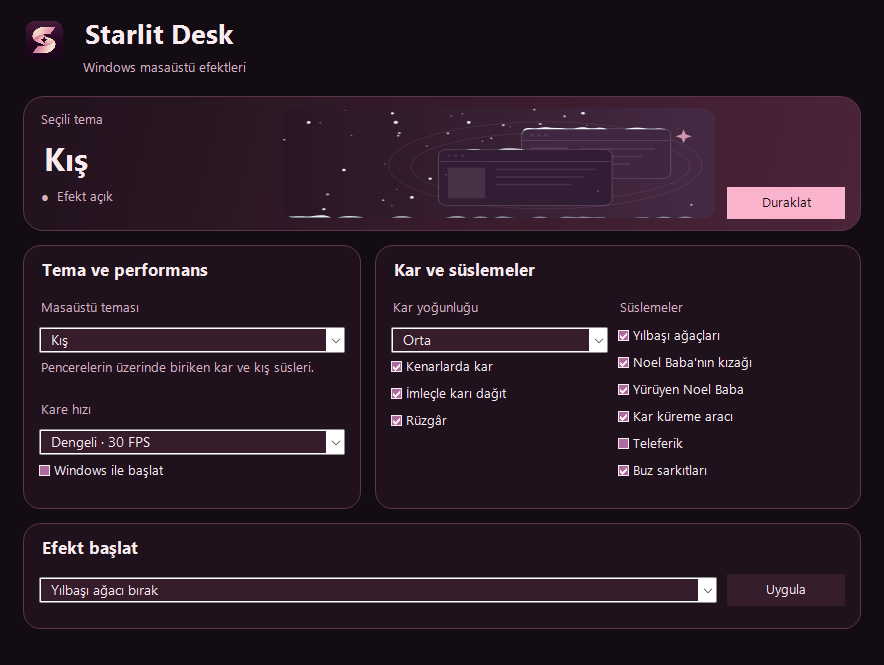
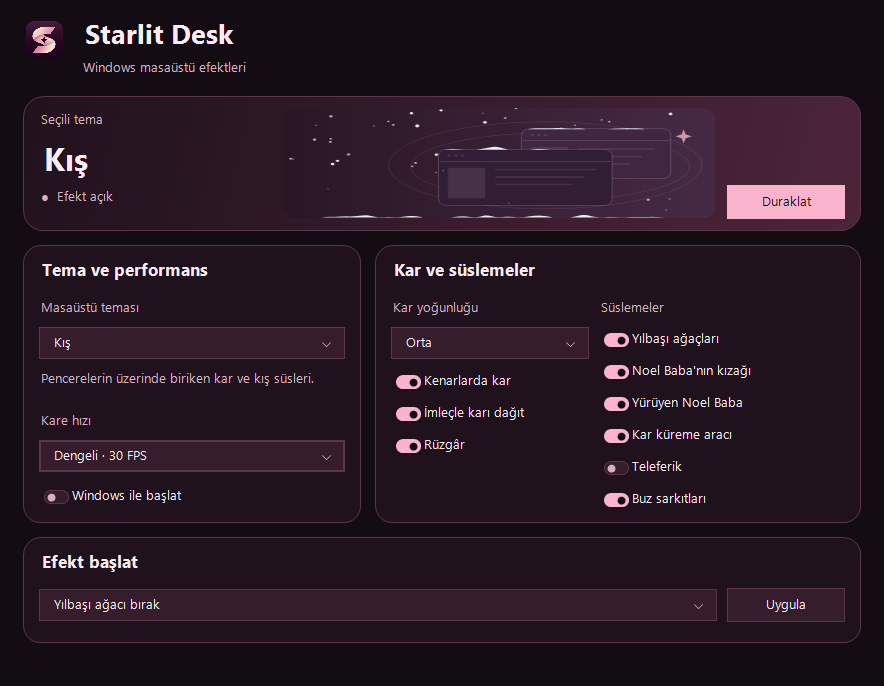
Match Starlit Desk controls and native title bar to its burgundy theme

diff --git a/src/DeskStyle.cs b/src/DeskStyle.cs
@@ -1,4 +1,5 @@
 using System;
+using System.Collections.Generic;
 using System.Drawing;
 using System.Drawing.Drawing2D;
 using System.Windows.Forms;
@@ -14,6 +15,11 @@ namespace SnowDesk
         internal static readonly Color Text = Color.FromArgb(250, 235, 241);
         internal static readonly Color Muted = Color.FromArgb(216, 176, 195);
         internal static readonly Color Accent = Color.FromArgb(249, 179, 204);
+        internal static readonly Color Caption = Color.FromArgb(40, 21, 34);
+        internal static readonly Color Hover = Color.FromArgb(69, 37, 55);
+        internal static readonly Bitmap Chevron = CreateChevron();
+        private static readonly Bitmap SwitchOff = CreateSwitch(false);
+        private static readonly Bitmap SwitchOn = CreateSwitch(true);
 
         internal static TableLayoutPanel Flow(int columns)
         {
@@ -45,22 +51,77 @@ namespace SnowDesk
             };
         }
 
-        internal static ComboBox Select(string label) { return new DeskSelect(label); }
+        internal static DeskSelect Select(string label) { return new DeskSelect(label); }
 
         internal static Button Button(string text, bool primary)
         {
-            var button = new Button
-            {
-                Text = text, Width = 118, Height = 32, Margin = Padding.Empty,
-                UseVisualStyleBackColor = false, UseCompatibleTextRendering = true,
-                FlatStyle = FlatStyle.Flat, BackColor = primary ? Accent : Input,
-                ForeColor = primary ? Background : Text
-            };
-            button.FlatAppearance.BorderSize = 0;
-            button.FlatAppearance.MouseOverBackColor = primary ? Color.FromArgb(255, 205, 224) : Border;
+            var button = new Button { Text = text, Width = 118, Height = 34 };
+            StyleButton(button, primary);
+            return button;
+        }
+
+        internal static void StyleButton(Button button, bool primary)
+        {
+            button.Margin = Padding.Empty;
+            button.UseVisualStyleBackColor = false;
+            button.UseCompatibleTextRendering = true;
+            button.FlatStyle = FlatStyle.Flat;
+            button.BackColor = primary ? Accent : Input;
+            button.ForeColor = primary ? Background : Text;
+            button.FlatAppearance.BorderSize = primary ? 0 : 1;
+            button.FlatAppearance.BorderColor = Border;
+            button.FlatAppearance.MouseOverBackColor = primary ? Color.FromArgb(255, 205, 224) : Hover;
+            button.FlatAppearance.MouseDownBackColor = primary ? Color.FromArgb(235, 149, 183) : Border;
             button.Resize += (sender, e) => RoundButton(button);
             RoundButton(button);
-            return button;
+        }
+
+        internal static CheckBox Toggle(string title)
+        {
+            var check = new CheckBox
+            {
+                Text = title, Appearance = Appearance.Button, AccessibleRole = AccessibleRole.CheckButton,
+                AutoSize = true, MinimumSize = new Size(0, 25), ForeColor = Text, BackColor = Surface,
+                FlatStyle = FlatStyle.Flat, UseCompatibleTextRendering = true, UseVisualStyleBackColor = false,
+                Image = SwitchOff, ImageAlign = ContentAlignment.MiddleLeft,
+                TextAlign = ContentAlignment.MiddleLeft, TextImageRelation = TextImageRelation.ImageBeforeText,
+                Anchor = AnchorStyles.Left, Margin = new Padding(0, 1, 0, 1)
+            };
+            check.FlatAppearance.BorderSize = 0;
+            check.FlatAppearance.CheckedBackColor = Surface;
+            check.FlatAppearance.MouseOverBackColor = Input;
+            check.FlatAppearance.MouseDownBackColor = Hover;
+            check.CheckedChanged += (sender, e) => check.Image = check.Checked ? SwitchOn : SwitchOff;
+            return check;
+        }
+
+        private static Bitmap CreateSwitch(bool enabled)
+        {
+            var glyph = new Bitmap(28, 16);
+            using (Graphics graphics = Graphics.FromImage(glyph))
+            using (GraphicsPath track = Rounded(new Rectangle(0, 1, 24, 13), 6))
+            using (var fill = new SolidBrush(enabled ? Accent : Input))
+            using (var rim = new Pen(enabled ? Accent : Border))
+            using (var thumb = new SolidBrush(enabled ? Background : Muted))
+            {
+                graphics.SmoothingMode = SmoothingMode.AntiAlias;
+                graphics.FillPath(fill, track);
+                graphics.DrawPath(rim, track);
+                graphics.FillEllipse(thumb, enabled ? 13 : 3, 4, 8, 8);
+            }
+            return glyph;
+        }
+
+        private static Bitmap CreateChevron()
+        {
+            var glyph = new Bitmap(12, 12);
+            using (Graphics graphics = Graphics.FromImage(glyph))
+            using (var pen = new Pen(Muted, 1.4f) { StartCap = LineCap.Round, EndCap = LineCap.Round })
+            {
+                graphics.SmoothingMode = SmoothingMode.AntiAlias;
+                graphics.DrawLines(pen, new[] { new Point(2, 4), new Point(6, 8), new Point(10, 4) });
+            }
+            return glyph;
         }
 
         private static void RoundButton(Button button)
@@ -96,36 +157,120 @@ namespace SnowDesk
         }
     }
 
-    internal sealed class DeskSelect : ComboBox
+    internal sealed class DeskSelect : Button
     {
+        private readonly ContextMenuStrip menu = new ContextMenuStrip();
+        internal readonly List<object> Items = new List<object>();
+        internal event EventHandler SelectedIndexChanged;
+        private int selectedIndex = -1;
+
         internal DeskSelect(string label)
         {
+            DeskStyle.StyleButton(this, false);
             AccessibleName = label;
-            DropDownStyle = ComboBoxStyle.DropDownList;
-            BackColor = DeskStyle.Input;
-            ForeColor = DeskStyle.Text;
+            AccessibleRole = AccessibleRole.ComboBox;
             Dock = DockStyle.Top;
-            FlatStyle = FlatStyle.Flat;
-            IntegralHeight = false;
-            DropDownHeight = 196;
-            DrawMode = DrawMode.OwnerDrawFixed;
+            Height = 32;
+            Padding = new Padding(9, 0, 9, 0);
+            UseMnemonic = false;
+            AutoEllipsis = true;
+            Image = DeskStyle.Chevron;
+            TextAlign = ContentAlignment.MiddleLeft;
+            ImageAlign = ContentAlignment.MiddleRight;
+            TextImageRelation = TextImageRelation.TextBeforeImage;
+            menu.ShowImageMargin = false;
+            menu.ShowCheckMargin = true;
+            menu.Renderer = new ToolStripProfessionalRenderer(new DeskMenuColors());
         }
 
-        protected override void OnDrawItem(DrawItemEventArgs e)
+        internal int SelectedIndex
         {
-            bool active = (e.State & DrawItemState.Selected) != 0;
-            using (var fill = new SolidBrush(active ? DeskStyle.Border : BackColor))
-                e.Graphics.FillRectangle(fill, e.Bounds);
-            if (e.Index >= 0)
+            get { return selectedIndex; }
+            set
             {
-                Rectangle text = e.Bounds;
-                text.Inflate(-5, 0);
-                TextRenderer.DrawText(e.Graphics, GetItemText(Items[e.Index]), Font, text, ForeColor,
-                    TextFormatFlags.SingleLine | TextFormatFlags.VerticalCenter | TextFormatFlags.EndEllipsis |
-                    TextFormatFlags.PreserveGraphicsClipping | TextFormatFlags.PreserveGraphicsTranslateTransform);
+                if (value < -1 || value >= Items.Count) throw new ArgumentOutOfRangeException("value");
+                if (value == selectedIndex) return;
+                selectedIndex = value;
+                Text = value < 0 ? string.Empty : Items[value].ToString();
+                if (SelectedIndexChanged != null) SelectedIndexChanged(this, EventArgs.Empty);
             }
-            e.DrawFocusRectangle();
         }
+
+        internal object SelectedItem
+        {
+            get { return selectedIndex < 0 ? null : Items[selectedIndex]; }
+            set { SelectedIndex = Items.IndexOf(value); }
+        }
+
+        protected override void OnClick(EventArgs e)
+        {
+            base.OnClick(e);
+            if (Items.Count == 0 || menu.Visible) return;
+            while (menu.Items.Count != 0)
+            {
+                ToolStripItem previous = menu.Items[0];
+                menu.Items.RemoveAt(0);
+                previous.Dispose();
+            }
+            menu.Font = Font;
+            menu.MinimumSize = new Size(Width, 0);
+            for (int index = 0; index < Items.Count; index++)
+            {
+                int optionIndex = index;
+                var item = new ToolStripMenuItem(Items[index].ToString())
+                {
+                    Checked = index == SelectedIndex, ForeColor = DeskStyle.Text,
+                    AutoSize = false, Size = new Size(Math.Max(120, Width - 4), Math.Max(27, Font.Height + 9))
+                };
+                item.Click += (sender, args) => SelectedIndex = optionIndex;
+                menu.Items.Add(item);
+            }
+
+            Form owner = FindForm();
+            bool below = owner == null || PointToScreen(new Point(0, Height)).Y +
+                menu.GetPreferredSize(Size.Empty).Height <= owner.RectangleToScreen(owner.ClientRectangle).Bottom;
+            menu.Show(this, new Point(0, below ? Height : 0),
+                below ? ToolStripDropDownDirection.BelowRight : ToolStripDropDownDirection.AboveRight);
+            if (SelectedIndex >= 0) menu.Items[SelectedIndex].Select();
+        }
+
+        protected override bool ProcessCmdKey(ref Message message, Keys keyData)
+        {
+            if (keyData == Keys.F4 || keyData == (Keys.Alt | Keys.Down))
+            {
+                PerformClick();
+                return true;
+            }
+            if (Items.Count > 0 && (keyData == Keys.Up || keyData == Keys.Down))
+            {
+                SelectedIndex = Math.Max(0, Math.Min(Items.Count - 1, SelectedIndex + (keyData == Keys.Up ? -1 : 1)));
+                return true;
+            }
+            return base.ProcessCmdKey(ref message, keyData);
+        }
+
+        protected override void Dispose(bool disposing)
+        {
+            if (disposing) menu.Dispose();
+            base.Dispose(disposing);
+        }
+    }
+
+    internal sealed class DeskMenuColors : ProfessionalColorTable
+    {
+        public override Color ToolStripDropDownBackground { get { return DeskStyle.Surface; } }
+        public override Color MenuBorder { get { return DeskStyle.Border; } }
+        public override Color MenuItemBorder { get { return DeskStyle.Border; } }
+        public override Color MenuItemSelected { get { return DeskStyle.Hover; } }
+        public override Color MenuItemSelectedGradientBegin { get { return DeskStyle.Hover; } }
+        public override Color MenuItemSelectedGradientEnd { get { return DeskStyle.Hover; } }
+        public override Color ImageMarginGradientBegin { get { return DeskStyle.Surface; } }
+        public override Color ImageMarginGradientMiddle { get { return DeskStyle.Surface; } }
+        public override Color ImageMarginGradientEnd { get { return DeskStyle.Surface; } }
+        public override Color ButtonSelectedBorder { get { return DeskStyle.Accent; } }
+        public override Color ButtonPressedBorder { get { return DeskStyle.Border; } }
+        public override Color CheckBackground { get { return DeskStyle.Accent; } }
+        public override Color CheckSelectedBackground { get { return DeskStyle.Accent; } }
     }
 
     internal sealed class DeskCard : Panel

diff --git a/src/DeskWindow.cs b/src/DeskWindow.cs
@@ -14,7 +14,7 @@ namespace SnowDesk
         private readonly DeskThemePreview themePreview;
         private readonly Settings settings;
         private readonly List<Action> updateChecks = new List<Action>();
-        private readonly ComboBox themes, density, rate;
+        private readonly DeskSelect themes, density, rate;
         private readonly Label intro, status, themeDetail;
         private readonly Button pause;
         private readonly Control winterCard, actionCard;
@@ -34,8 +34,8 @@ namespace SnowDesk
             Font = new Font("Segoe UI", 10f);
             BackColor = DeskStyle.Background;
             ForeColor = DeskStyle.Text;
-            ClientSize = new Size(884, 665);
-            MinimumSize = new Size(680, 465);
+            ClientSize = new Size(884, 686);
+            MinimumSize = new Size(758, 465);
             FormClosing += KeepInTray;
 
             var scroll = new Panel { Dock = DockStyle.Fill, AutoScroll = true };
@@ -93,7 +93,7 @@ namespace SnowDesk
             settingsRow.ColumnStyles[1] = new ColumnStyle(SizeType.Percent, 58);
             body.Controls.Add(settingsRow);
 
-            var general = DeskStyle.Card("Tema ve performans", 266);
+            var general = DeskStyle.Card("Tema ve performans", 280);
             general.Margin = new Padding(0, 0, 12, 12);
             settingsRow.Controls.Add(general, 0, 0);
             var options = (TableLayoutPanel)general.Controls[0];
@@ -120,11 +120,13 @@ namespace SnowDesk
             };
             AddCheck(options, "Windows ile başlat", Program.HasStartup, value => app.ToggleStartup(), false);
 
-            var winter = DeskStyle.Card("Kar ve süslemeler", 266);
+            var winter = DeskStyle.Card("Kar ve süslemeler", 280);
             winterCard = winter;
             settingsRow.Controls.Add(winter, 1, 0);
             var winterBody = (TableLayoutPanel)winter.Controls[0];
             var winterGrid = DeskStyle.Flow(2);
+            winterGrid.ColumnStyles[0] = new ColumnStyle(SizeType.Percent, 46);
+            winterGrid.ColumnStyles[1] = new ColumnStyle(SizeType.Percent, 54);
             winterBody.Controls.Add(winterGrid);
             var snow = DeskStyle.Flow(1);
             snow.Margin = new Padding(0, 0, 10, 0);
@@ -161,7 +163,7 @@ namespace SnowDesk
             var effects = DeskStyle.Select("Başlatılacak efekt");
             effects.Items.AddRange(SnowAction.All);
             effects.SelectedIndex = 0;
-            effects.Margin = new Padding(0, 3, 10, 0);
+            effects.Margin = new Padding(0, 1, 10, 0);
             actionRow.Controls.Add(effects, 0, 0);
             var play = DeskStyle.Button("Uygula", false);
             play.Click += (sender, e) => app.RunSnowAction((SnowAction)effects.SelectedItem);
@@ -231,10 +233,10 @@ namespace SnowDesk
             if (message.Msg == SettingChange) UpdatePreview();
         }
 
-        private static ComboBox AddSelect(TableLayoutPanel panel, string title, bool compact, params object[] choices)
+        private static DeskSelect AddSelect(TableLayoutPanel panel, string title, bool compact, params object[] choices)
         {
             panel.Controls.Add(DeskStyle.Copy(title));
-            ComboBox select = DeskStyle.Select(title);
+            DeskSelect select = DeskStyle.Select(title);
             select.Margin = new Padding(0, 4, 0, compact ? 6 : 8);
             select.Items.AddRange(choices);
             panel.Controls.Add(select);
@@ -243,13 +245,7 @@ namespace SnowDesk
 
         private void AddCheck(TableLayoutPanel panel, string title, Func<bool> read, Action<bool> change, bool save = true)
         {
-            var check = new CheckBox
-            {
-                Text = title, AutoSize = true, ForeColor = DeskStyle.Text,
-                BackColor = DeskStyle.Surface, FlatStyle = FlatStyle.Flat, UseCompatibleTextRendering = true,
-                UseVisualStyleBackColor = false, Anchor = AnchorStyles.Left,
-                Margin = new Padding(0, 1, 0, 2)
-            };
+            CheckBox check = DeskStyle.Toggle(title);
             check.CheckedChanged += delegate
             {
                 if (syncing) return;
@@ -279,9 +275,23 @@ namespace SnowDesk
         protected override void OnHandleCreated(EventArgs e)
         {
             base.OnHandleCreated(e);
+            const int ImmersiveDarkMode = 20;
+            const int BorderColor = 34;
+            const int CaptionColor = 35;
+            const int TextColor = 36;
+            if (SystemInformation.HighContrast) return;
             int dark = 1;
-            if (DwmSetWindowAttribute(Handle, 20, ref dark, sizeof(int)) != 0)
+            if (DwmSetWindowAttribute(Handle, ImmersiveDarkMode, ref dark, sizeof(int)) != 0)
                 DwmSetWindowAttribute(Handle, 19, ref dark, sizeof(int));
+            SetCaptionColor(BorderColor, DeskStyle.Border);
+            SetCaptionColor(CaptionColor, DeskStyle.Caption);
+            SetCaptionColor(TextColor, DeskStyle.Text);
+        }
+
+        private void SetCaptionColor(int attribute, Color color)
+        {
+            int value = ColorTranslator.ToWin32(color);
+            DwmSetWindowAttribute(Handle, attribute, ref value, sizeof(int));
         }
 
         protected override void Dispose(bool disposing)
